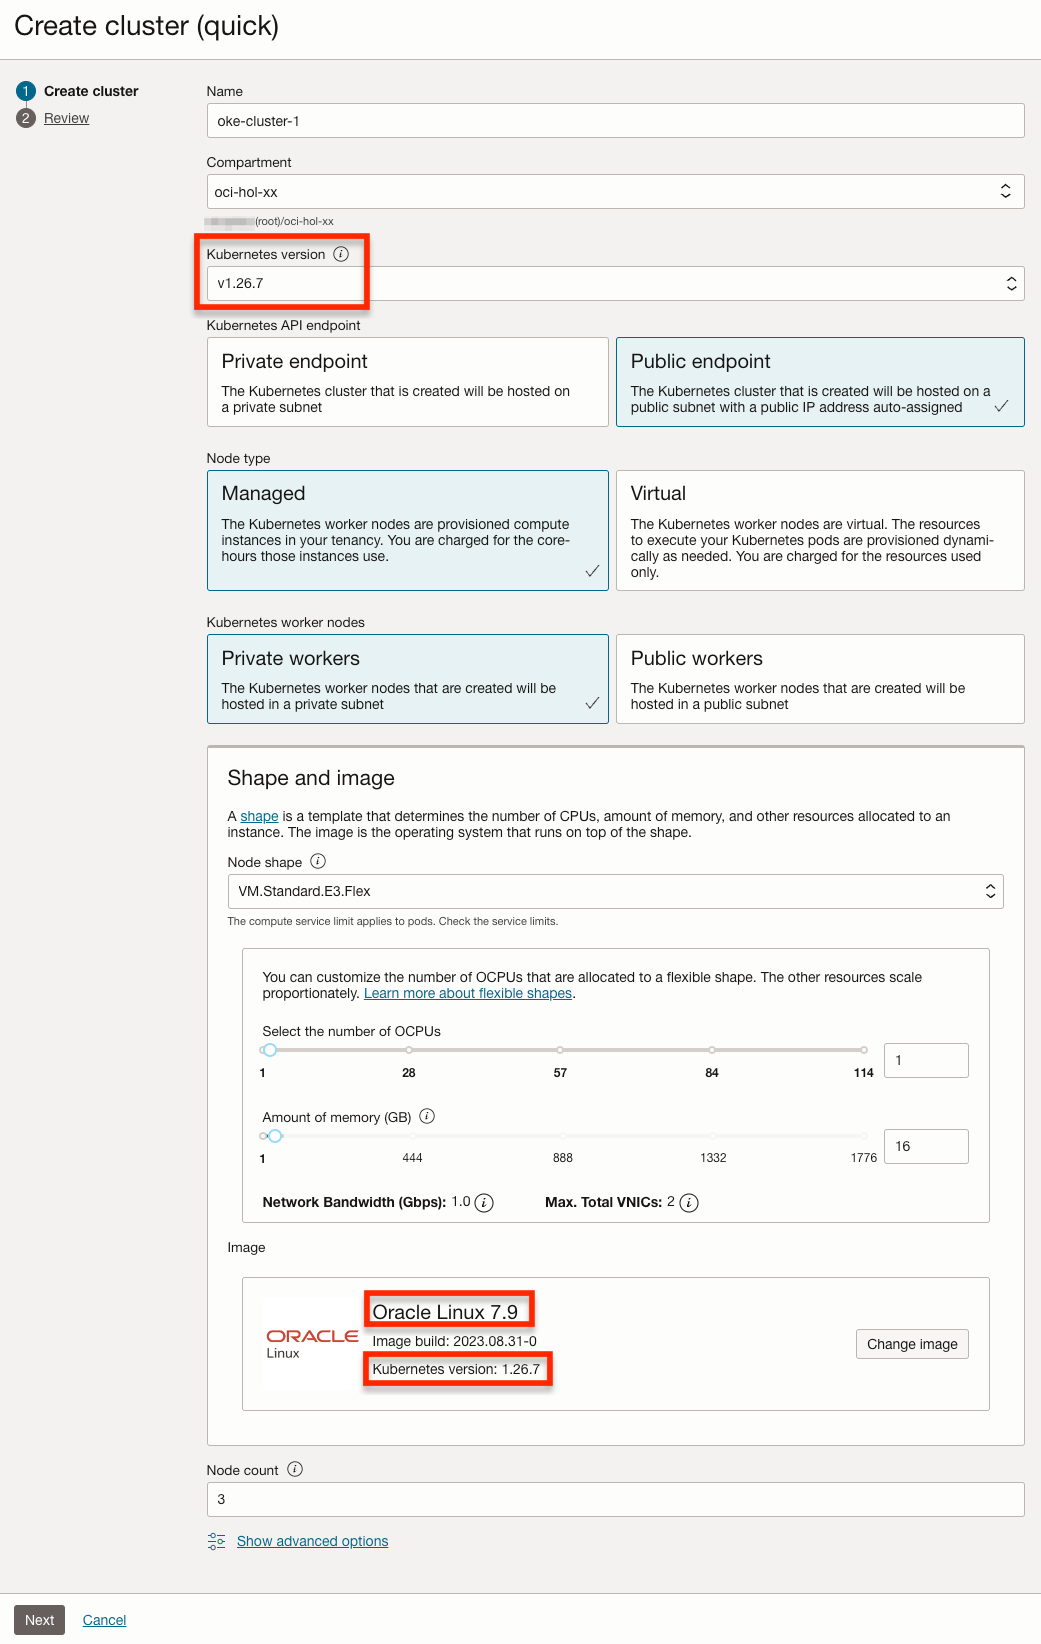
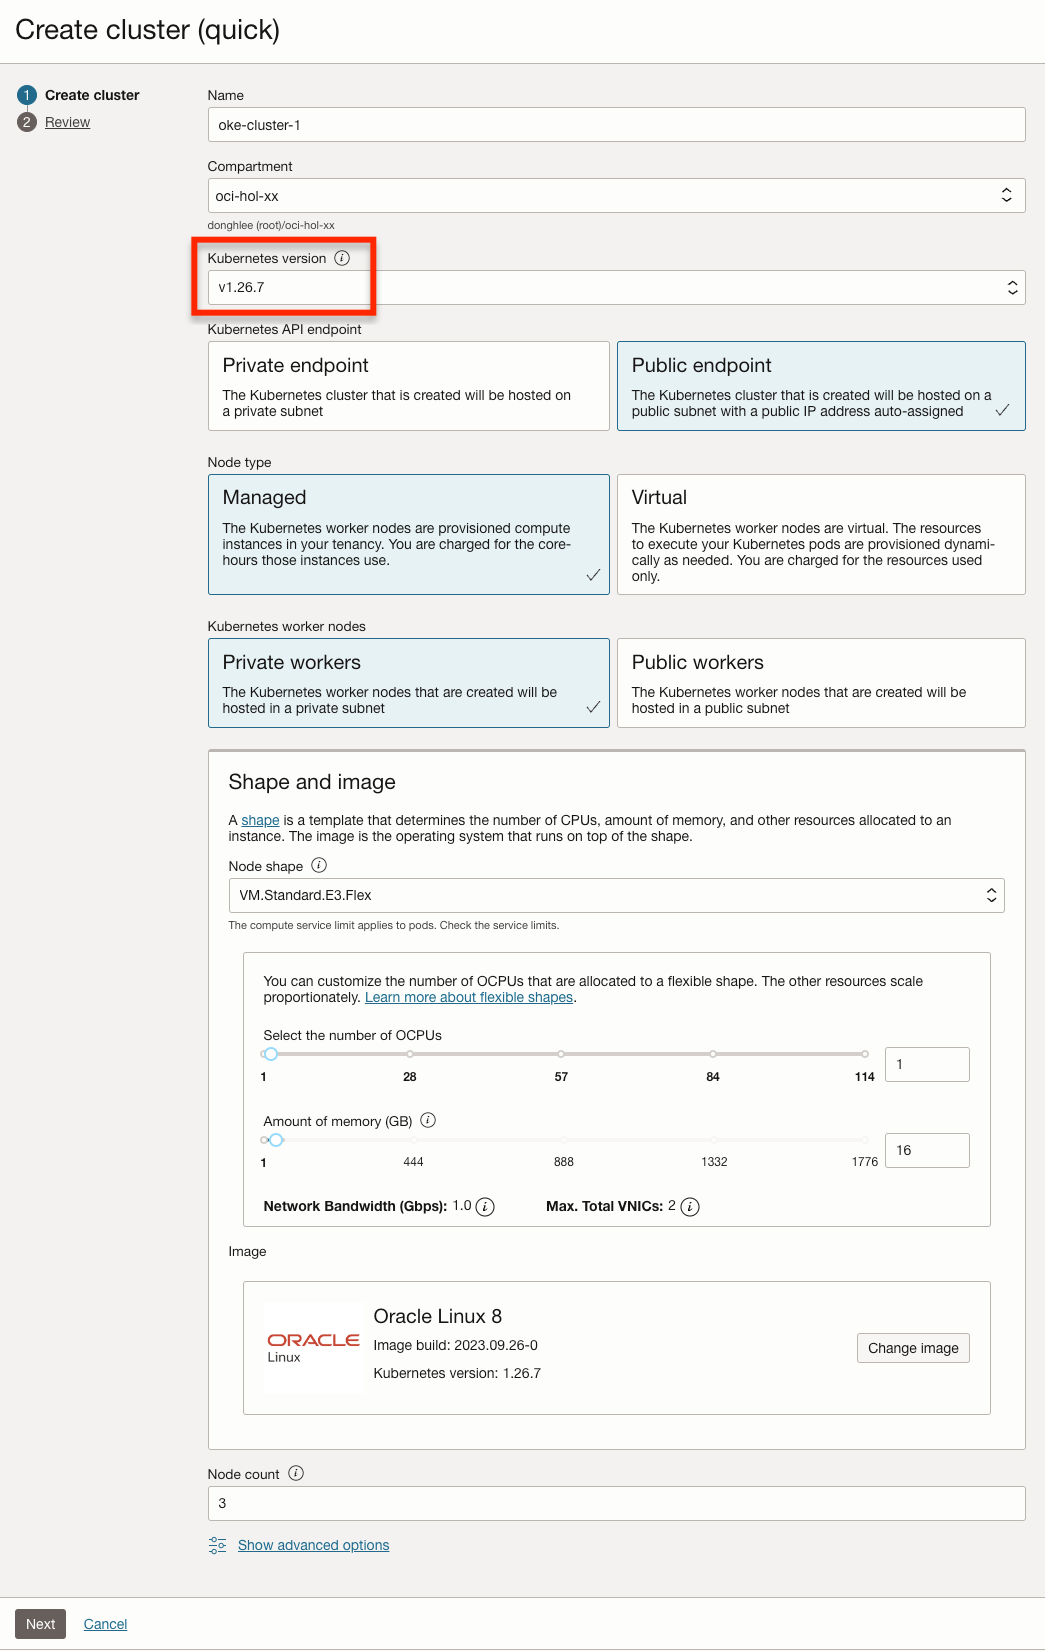
VCN NPN CNI에서 istio 설치를 위한 예외 처리

diff --git a/learning-library/oci-library/oci-hol-ko/oke-fundamentals/setup-cloud-env/setup-cloud-env.md b/learning-library/oci-library/oci-hol-ko/oke-fundamentals/setup-cloud-env/setup-cloud-env.md
@@ -139,6 +139,25 @@
 
    ![Quick Create Cluster](images/oke-create-cluster.png =50%x*)
 
+<if type="default">
+1. 생성 정보를 아래와 같이 입력합니다.
+    - Name: 예, **oke-cluster-1**
+    - Kubernetes version:
+        * *이후 업그레이드 실습을 위해, 중간 버전인 1.26.x을 선택합니다.*
+        * 2023년 10월 기준, 1.25, 1.26, 1.27 중 *1.26.x* 선택
+
+    - Image:
+        * 클러스터와 동일한 버전 선택, 예, 1.26.x
+
+    - 다른 값들은 기본값으로 유지합니다.
+    - Node type: Managed 선택
+        * **Managed**: Worker Node가 Compute 인스턴스로 생성되며, SSH로 접근이 가능한 일반적인 쿠버네티스 노드입니다.
+        * **Virtual**: Serverless로 가상 Worker Node를 사용하며, OCI가 관리합니다.
+    - Show advanced options: 필요시, Worker Node의 Boot Volume 사이즈, Node 접속용 SSH Key 등록 등을 할 수 있습니다.
+    
+    ![Cluster Details](images/oke-create-cluster-details.png =70%x*)
+</if>
+<if type="for-istio">
 1. 생성 정보를 아래와 같이 입력합니다.
     - Name: 예, **oke-cluster-1**
     - Kubernetes version:
@@ -155,11 +174,13 @@
         * **Virtual**: Serverless로 가상 Worker Node를 사용하며, OCI가 관리합니다.
     - Show advanced options: 필요시, Worker Node의 Boot Volume 사이즈, Node 접속용 SSH Key 등록 등을 할 수 있습니다.
     
-    ![Cluster Details](images/oke-create-cluster-details.png =70%x*)
+    ![Cluster Details](images/oke-create-cluster-details-ol-7.png =70%x*)
 
-    - *기본 선택되는 OCI VCN-Native Pod Networking CNI에서 Istio를 사용하기 위해서는 작성일 기준으로 Kubernetes 1.26 이상, Oracle Linux 7 이어야만 합니다. Lab 9를 실습하기 위해서 해당 조건으로 클러스터를 생성합니다.*
+    - *기본 선택되는 OCI VCN-Native Pod Networking CNI에서 Istio를 사용하기 위해서는 작성일 기준으로 Kubernetes 1.26 이상, Oracle Linux 7 이어야만 합니다. 이후 Service Mesh를 실습하기 위해서 해당 조건으로 클러스터를 생성합니다.*
 
         * [Installing Istio Service Mesh on OKE](https://docs.oracle.com/en-us/iaas/Content/ContEng/Tasks/contengistio-intro-topic.htm)
+
+</if>
 
 1. 클러스터 생성 정보를 모두 입력하였습니다. 아래 Next를 클릭
 
